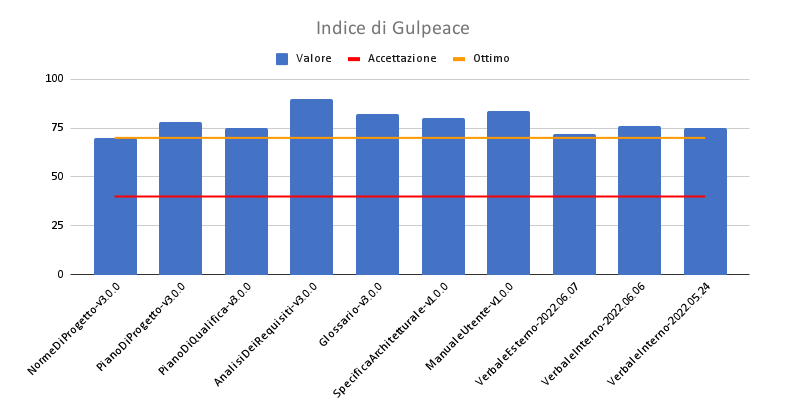
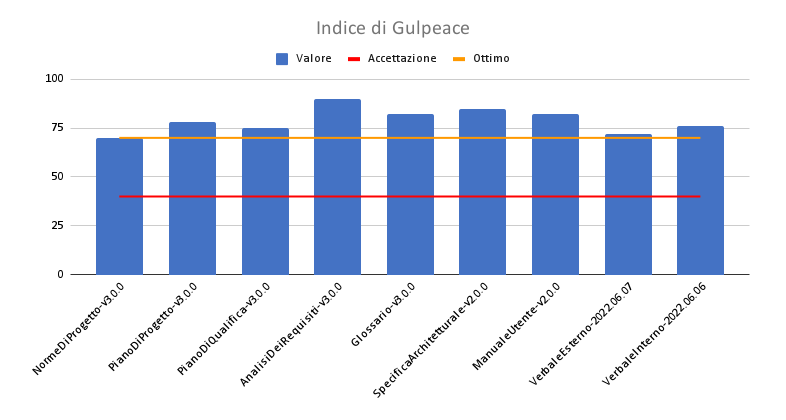
qualita di prodotto 4

diff --git a/PianoDiQualifica/Sezioni/MetricheProdottoPeriodo4.tex b/PianoDiQualifica/Sezioni/MetricheProdottoPeriodo4.tex
@@ -28,10 +28,10 @@ Di seguito sono riportati, attraverso l'uso di una tabella e di diagrammi, i val
             \textit{Glossario-v3.0.0} &
             82 &
             Superato \\
-            \textit{SpecificaArchitetturale-v1.0.0} &
+            \textit{SpecificaArchitetturale-v2.0.0} &
             85 &
             Superato \\
-            \textit{ManualeUtente-v1.0.0} &
+            \textit{ManualeUtente-v2.0.0} &
             82 &
             Superato \\
 
@@ -63,22 +63,6 @@ Di seguito sono riportati, attraverso l'uso di una tabella e di diagrammi, i val
     \caption{Progettazione di dettaglio e codifica: MQP03 - Numero parametri per metodo}
 \end{figure}
 \subsubsection{MQP04 - Code coverage}
-\begin{figure}[H]
-    \centering
-    \includegraphics[scale=0.50]{Sezioni/images/last_prodotto/coverage-CS.PNG}
-    \caption{Progettazione di dettaglio e codifica: MQP04 - Code coverage - Crawling Service}
-\end{figure}
-
-\begin{figure}[H]
-\centering
-    \includegraphics[scale=0.70]{Sezioni/images/last_prodotto/coverage-RS.JPG}
-    \caption{Progettazione di dettaglio e codifica: MQP04 - Code coverage - Ranking Service}
-\end{figure}
-\begin{figure}[H]
-    \centering
-        \includegraphics[scale=0.50]{Sezioni/images/last_prodotto/cov frontend.PNG}
-        \caption{Progettazione di dettaglio e codifica: MQP04 - Code coverage - Frontend}
-    \end{figure}
 \begin{figure}[H]
     \centering
     \includegraphics[scale=0.50]{Sezioni/images/last_prodotto/Code_coverage.png}
